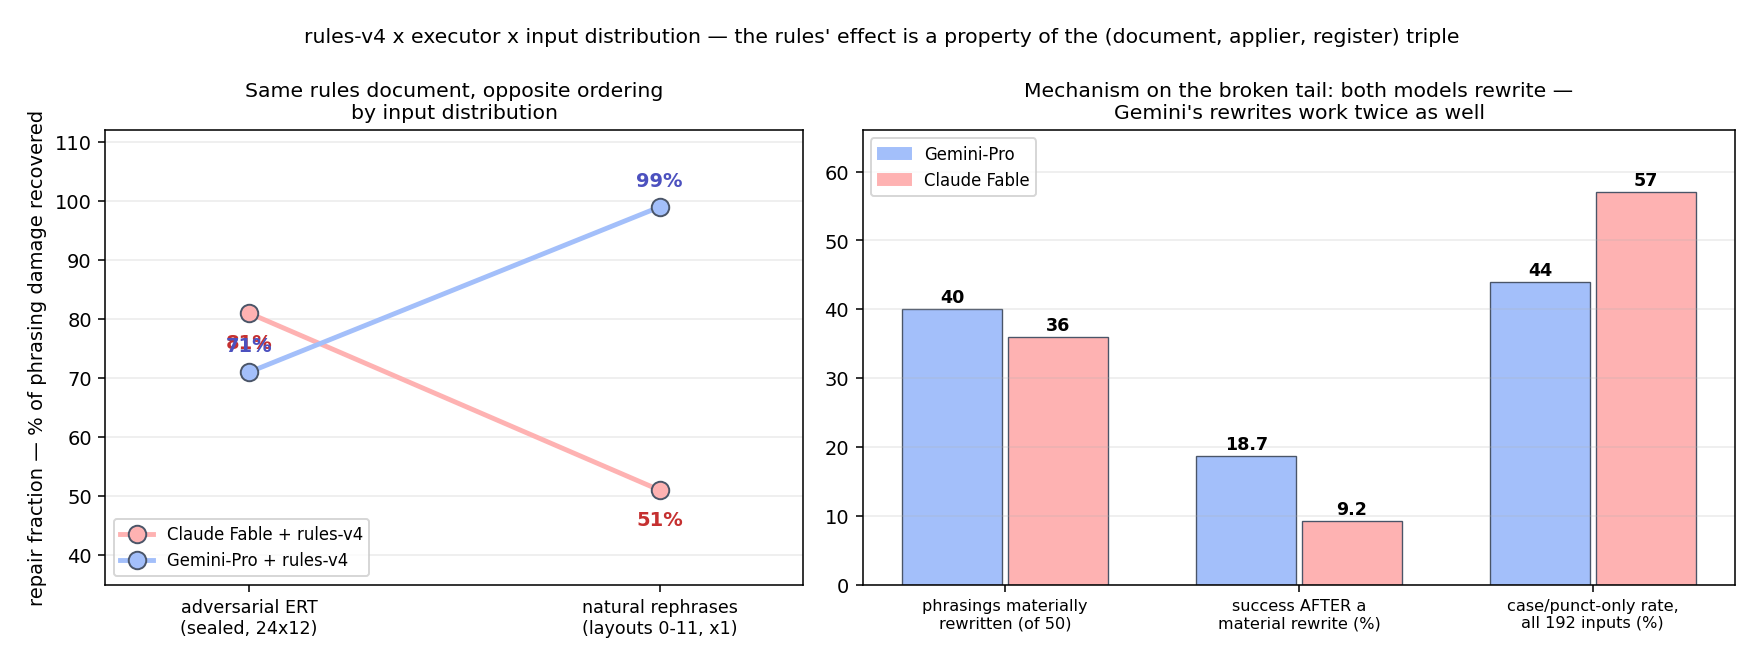
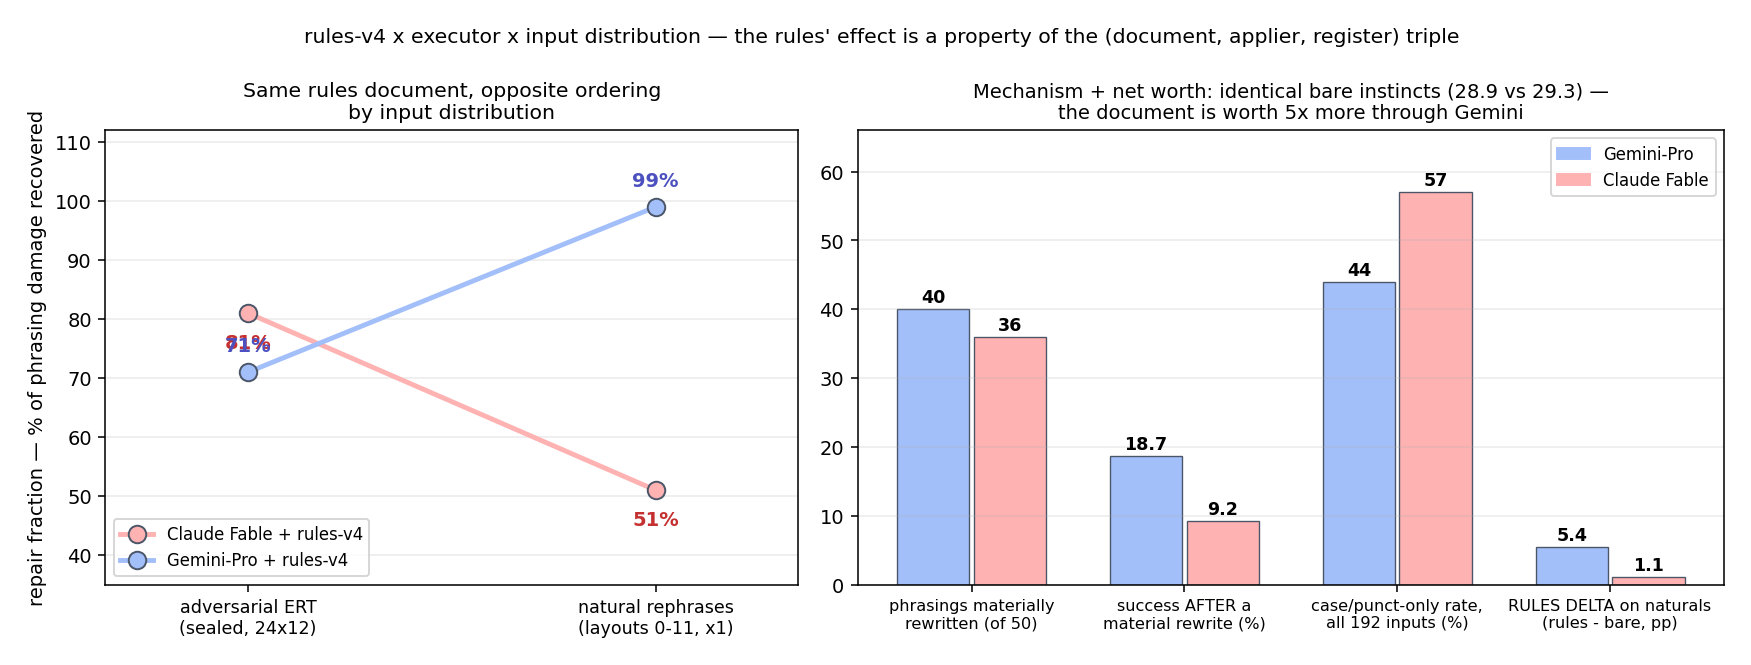
charts: interaction + delta group; gantt 03:06 actuals

diff --git a/scripts/make_fleet_gantt.py b/scripts/make_fleet_gantt.py
@@ -9,7 +9,7 @@ from matplotlib.patches import Patch
 
 C = {"sealed": "#a3bffa", "rr": "#fed7aa", "gen": "#b2f5ea",
      "train": "#d6bcfa", "worker": "#c6f6d5", "setup": "#e2e8f0"}
-NOW = 25.6  # 01:36 UTC Aug 6
+NOW = 27.1  # 03:06 UTC Aug 6
 
 ROWS = [
     ("L40S",    [("v10 RL training (prompt B; step ~135)", 4.0, 34.0, "train")]),
@@ -18,13 +18,13 @@ ROWS = [
     ("Eval 1",  [("v10step0_repair (sealed)", 19.45, 29.3, "sealed")]),
     ("Eval 2",  [("promptB_gemini_ert (sealed)", 20.95, 30.8, "sealed")]),
     ("Eval 3",  [("promptB_claude_ert (sealed)", 19.45, 29.3, "sealed")]),
-    ("Eval 4",  [("rr16_promptB_gemini", 20.95, 27.0, "rr"), ("promptB_gem_lay12 (chained)", 27.05, 33.1, "rr")]),
+    ("Eval 4",  [("promptB_gemini DONE 28.9", 20.95, 26.2, "rr"), ("promptB_gem_lay12", 26.3, 32.3, "rr")]),
     ("Eval 5",  [("rr16_promptB_claude", 22.1, 28.0, "rr"), ("promptB_cla_lay12 (chained)", 28.05, 34.1, "rr")]),
     ("Eval 6",  [("v10 checkpoint GEN (rolls -> consumers)", 4.0, 34.0, "worker")]),
     ("Eval 7",  [("rulesv4_claude DONE 30.4", 19.45, 24.55, "rr"), ("consumer", 24.6, 25.7, "worker"),
                  ("rulesv4_gemini_lay12", 25.75, 31.8, "rr")]),
     ("Eval 8",  [("pi0reph_lay12 DONE 30.6", 19.45, 24.85, "rr"), ("rulesv4_claude_lay12", 25.75, 31.8, "rr")]),
-    ("Eval 9",  [("pi0base_lay12 DONE 22.6", 19.45, 24.8, "rr"), ("rr16_rulesv4_qwen", 24.85, 30.9, "rr")]),
+    ("Eval 9",  [("pi0base_lay12 DONE 22.6", 19.45, 24.8, "rr"), ("cancelled/consumer", 24.85, 26.0, "worker")]),
 ]
 
 fig, ax = plt.subplots(figsize=(13.5, 6.2))
@@ -35,7 +35,7 @@ for i, (pod, bars) in enumerate(ROWS):
         if e - s > 1.6:
             ax.text((s + e) / 2, y, label, ha="center", va="center", fontsize=7.4, color="#2d3748")
 ax.axvline(NOW, color="#e53e3e", lw=1.4, ls="--")
-ax.text(NOW + 0.1, len(ROWS) - 0.35, "now 01:36", color="#e53e3e", fontsize=8)
+ax.text(NOW + 0.1, len(ROWS) - 0.35, "now 03:06", color="#e53e3e", fontsize=8)
 ax.set_yticks(range(len(ROWS)))
 ax.set_yticklabels([p for p, _ in reversed(ROWS)], fontsize=9.5)
 ticks = list(range(4, 33, 2))

diff --git a/scripts/make_rules_interaction.py b/scripts/make_rules_interaction.py
@@ -35,9 +35,9 @@ a.grid(axis="y", alpha=0.25)
 
 # B: broken-tail mechanism (the 50 natural phrasings scoring 0 before rules)
 groups = ["phrasings materially\nrewritten (of 50)", "success AFTER a\nmaterial rewrite (%)",
-          "case/punct-only rate,\nall 192 inputs (%)"]
-gvals = [40, 18.7, 44]
-cvals = [36, 9.2, 57]
+          "case/punct-only rate,\nall 192 inputs (%)", "RULES DELTA on naturals\n(rules - bare, pp)"]
+gvals = [40, 18.7, 44, 5.4]
+cvals = [36, 9.2, 57, 1.1]
 xg = range(len(groups))
 for i, (gv, cv) in enumerate(zip(gvals, cvals)):
     b.bar(i - 0.18, gv, 0.34, color=C_GEM, edgecolor="#4a5568", lw=0.7)
@@ -47,7 +47,7 @@ for i, (gv, cv) in enumerate(zip(gvals, cvals)):
 b.set_xticks(list(xg))
 b.set_xticklabels(groups, fontsize=8.3)
 b.set_ylim(0, 66)
-b.set_title("Mechanism on the broken tail: both models rewrite —\nGemini's rewrites work twice as well", fontsize=10.5)
+b.set_title("Mechanism + net worth: identical bare instincts (28.9 vs 29.3) —\nthe document is worth 5x more through Gemini", fontsize=10)
 b.legend(handles=[plt.Rectangle((0, 0), 1, 1, color=C_GEM),
                   plt.Rectangle((0, 0), 1, 1, color=C_CLAUDE)],
          labels=["Gemini-Pro", "Claude Fable"], fontsize=8.5)
